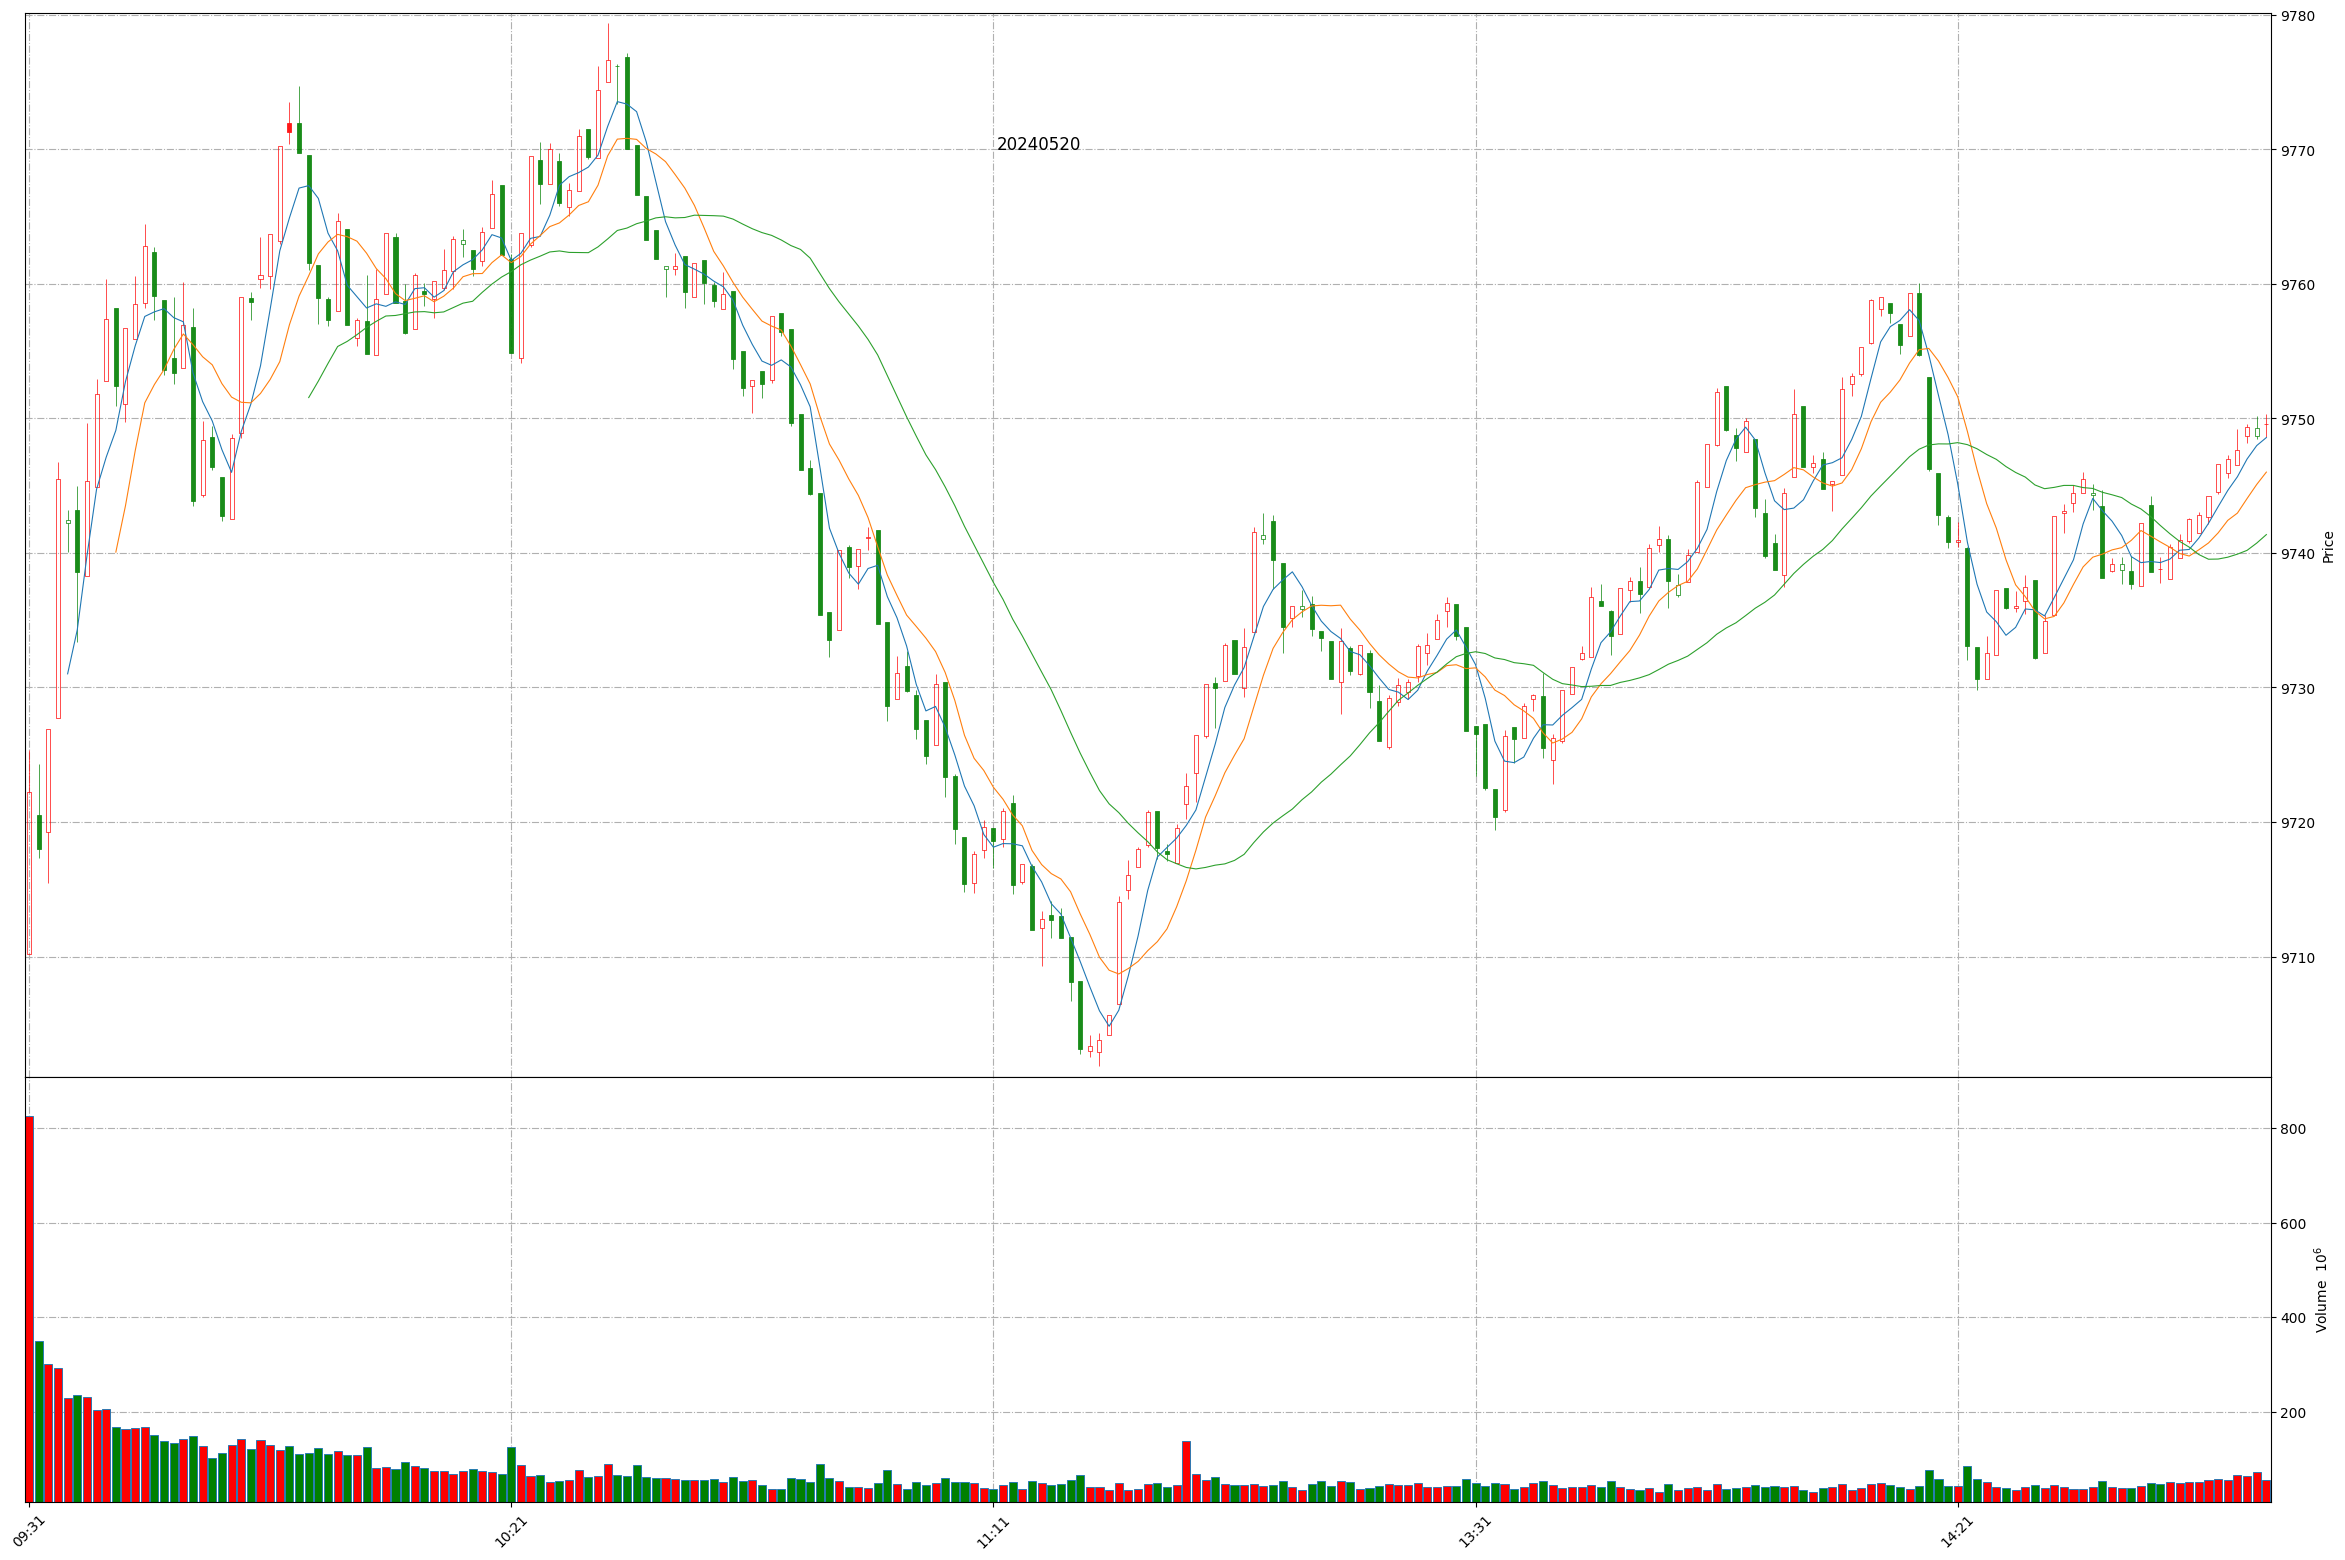
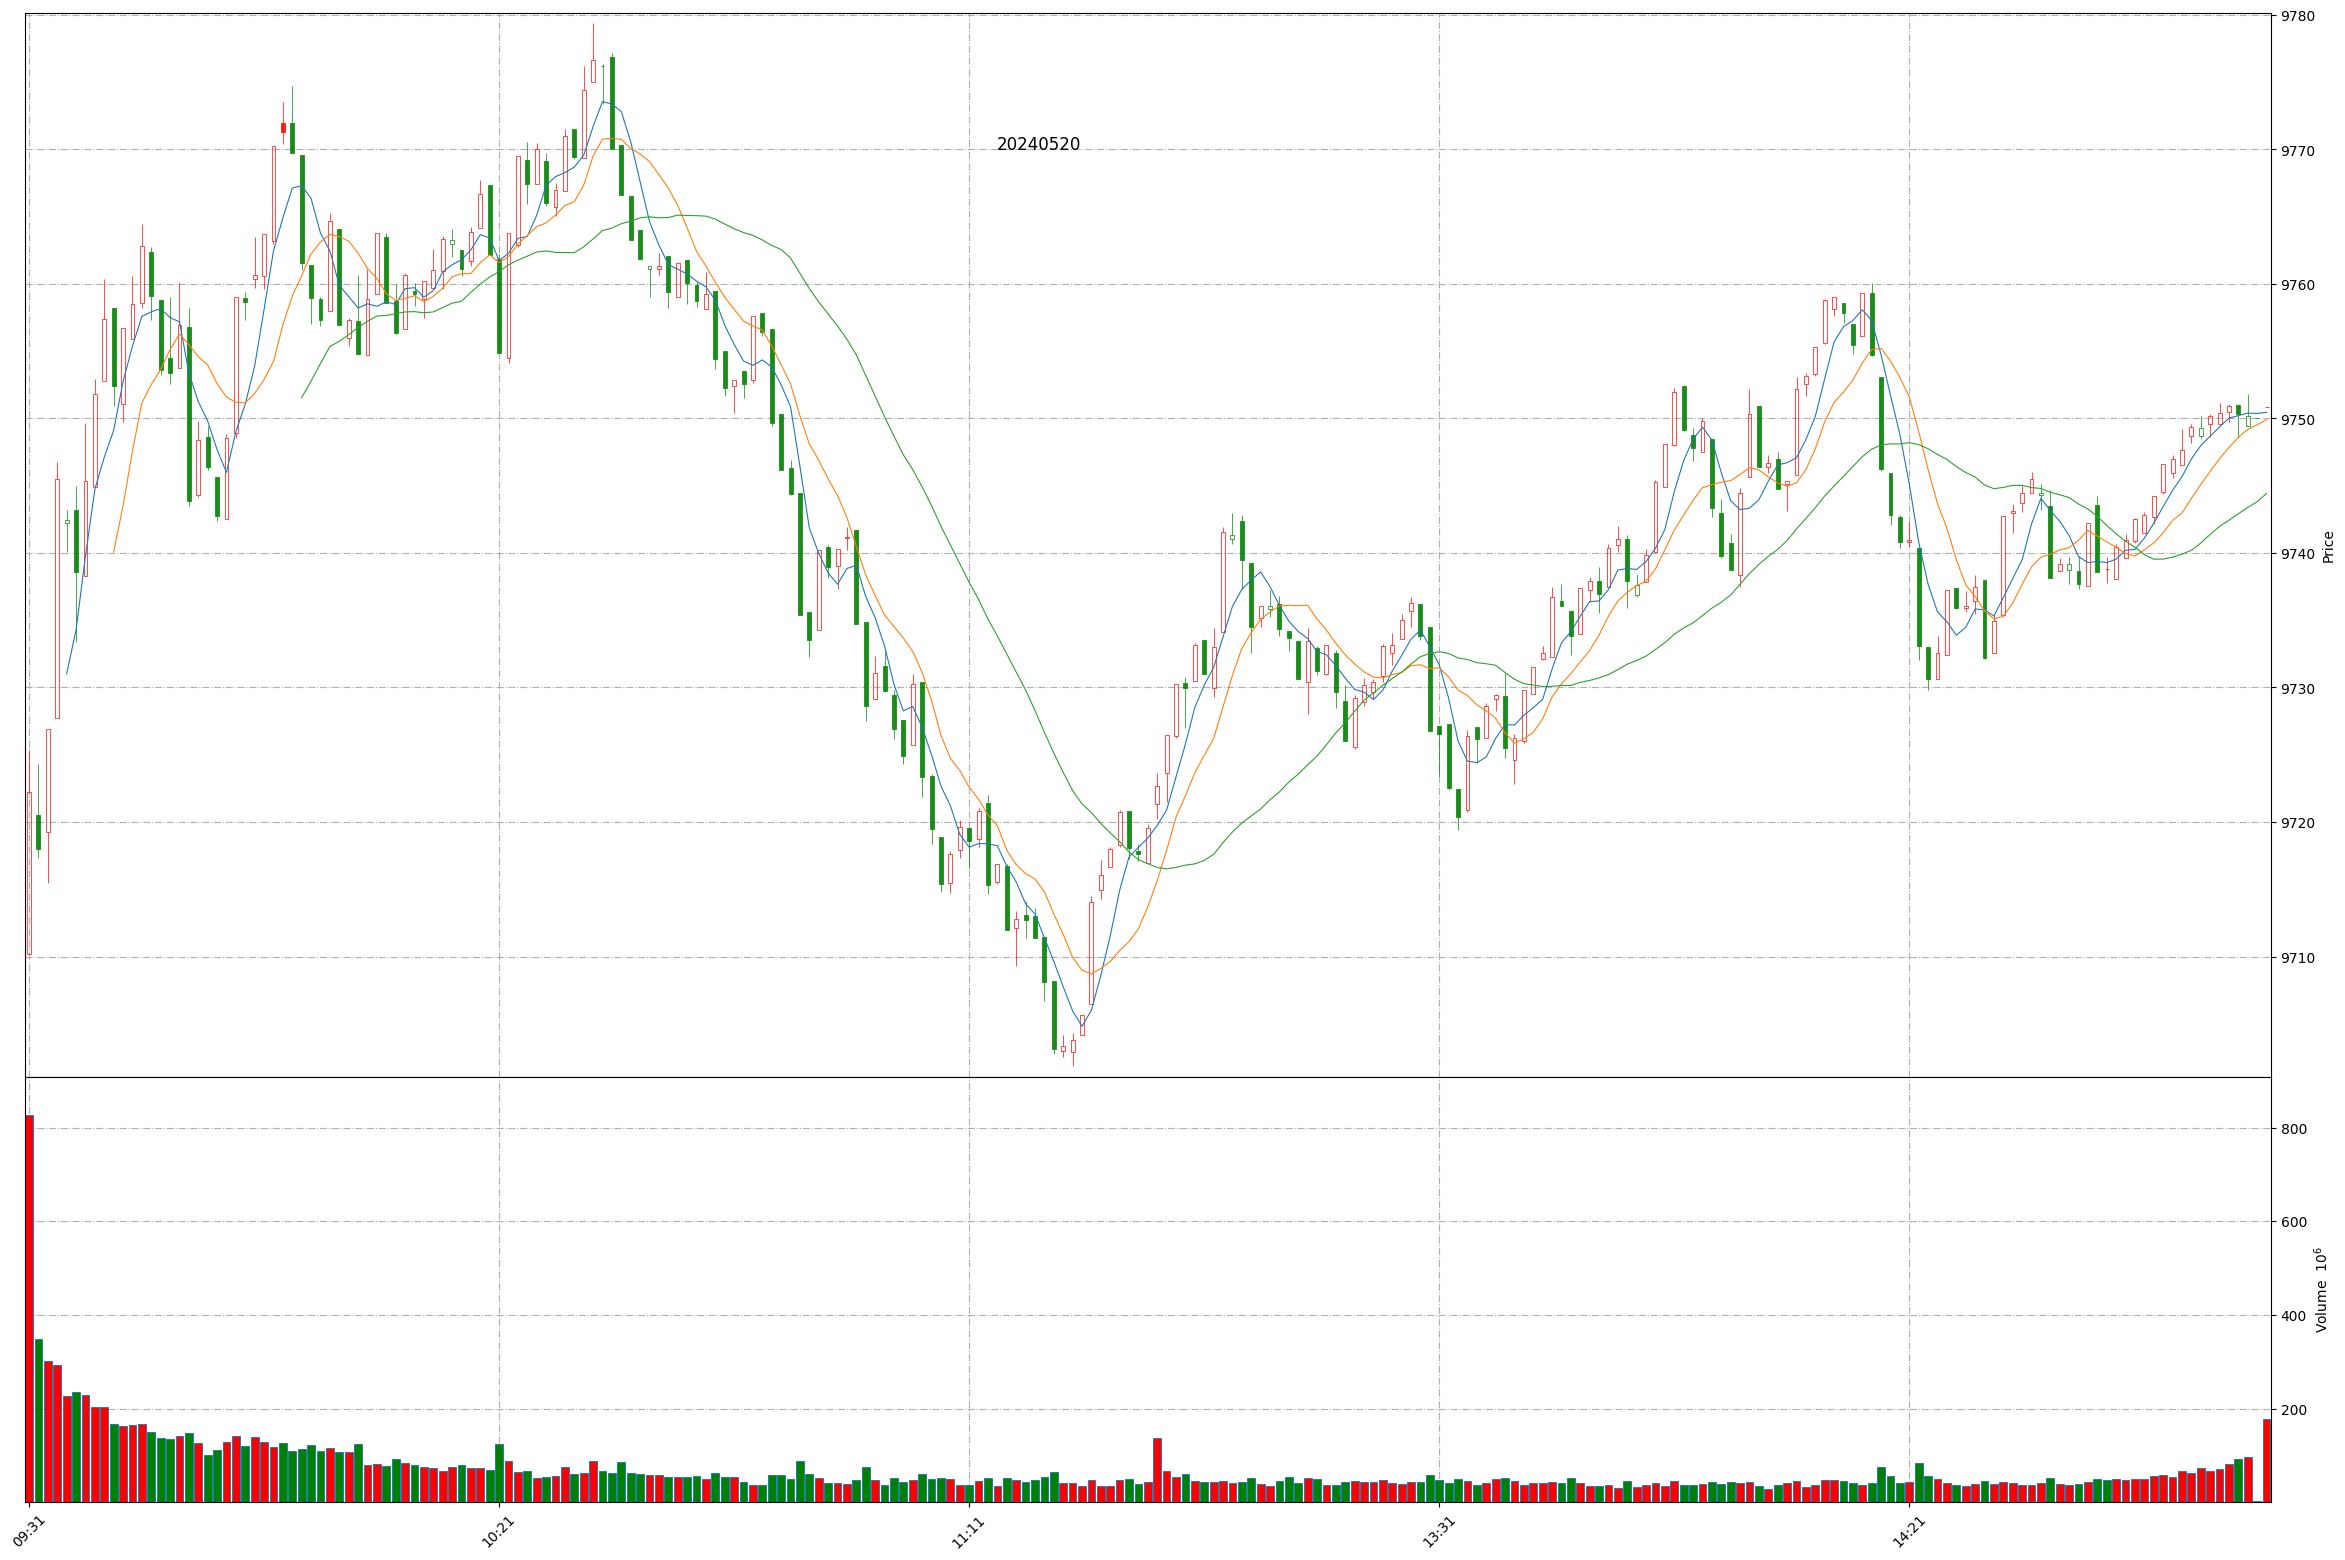
Github action update at 2024-05-20 15:11:12.

Changed region(s): [[0.0311, 0.0308, 0.965, 0.6769], [0.0, 0.8923, 0.965, 0.9846], [0.965, 0.8923, 0.9962, 0.9231]]

diff --git a/README.md b/README.md
@@ -1,11 +1,11 @@
 
 # Daily-A-share-market-quotes 每日 A 股指数（5min 更新）- 20240520
 
-### 上证指数 20240520 14:53
+### 上证指数 20240520 15:11
 ![](./fig/2024/5/20240520-sh000001.png)
 
-### 深证成指 20240520 14:53
+### 深证成指 20240520 15:11
 ![](./fig/2024/5/20240520-sz399001.png)
 
-### 北证50 20240520 14:53
+### 北证50 20240520 15:11
 ![](./fig/2024/5/20240520-bj899050.png)
